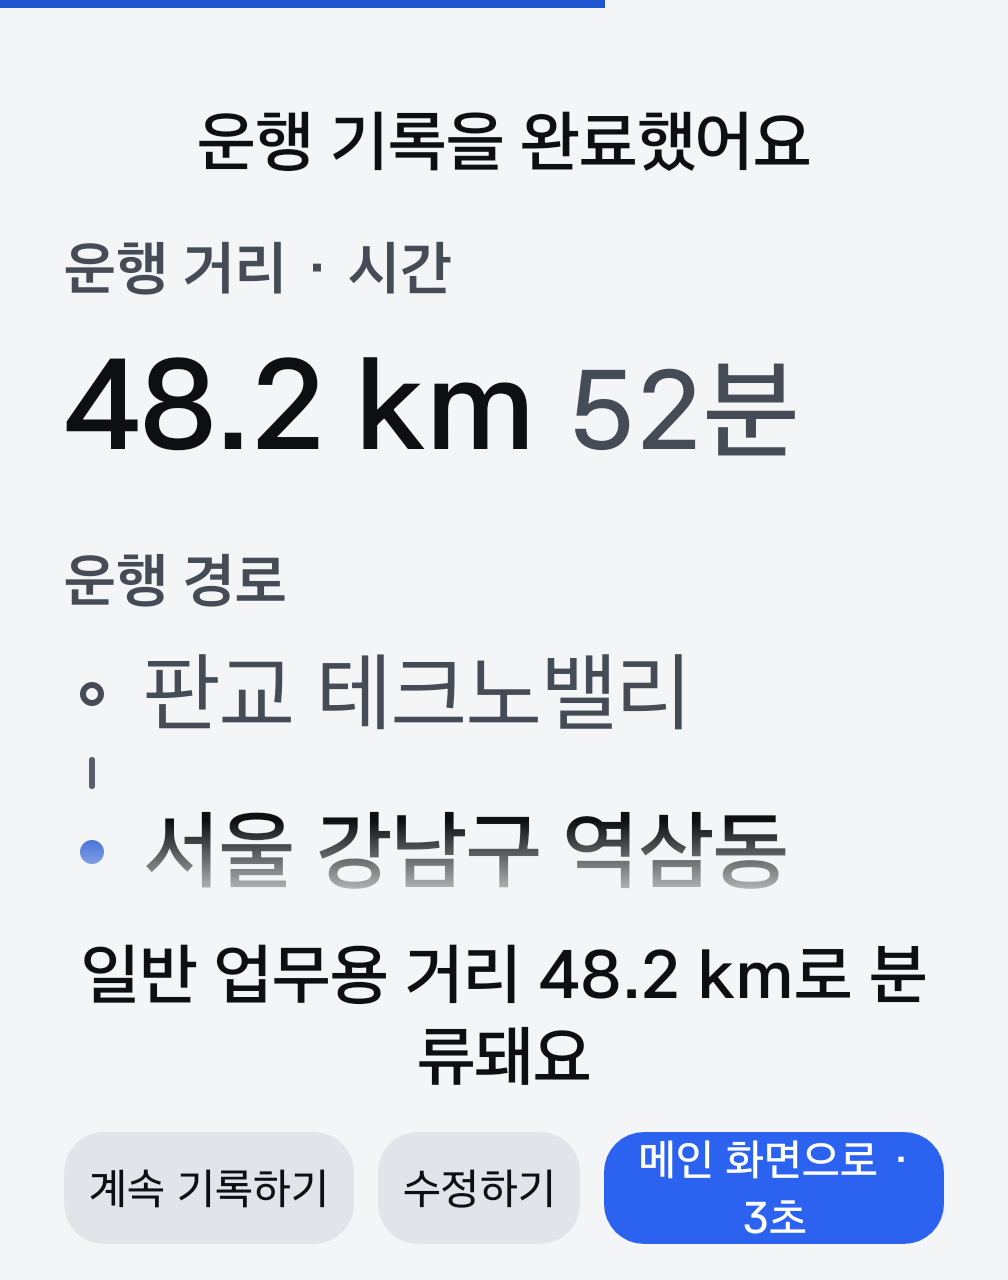
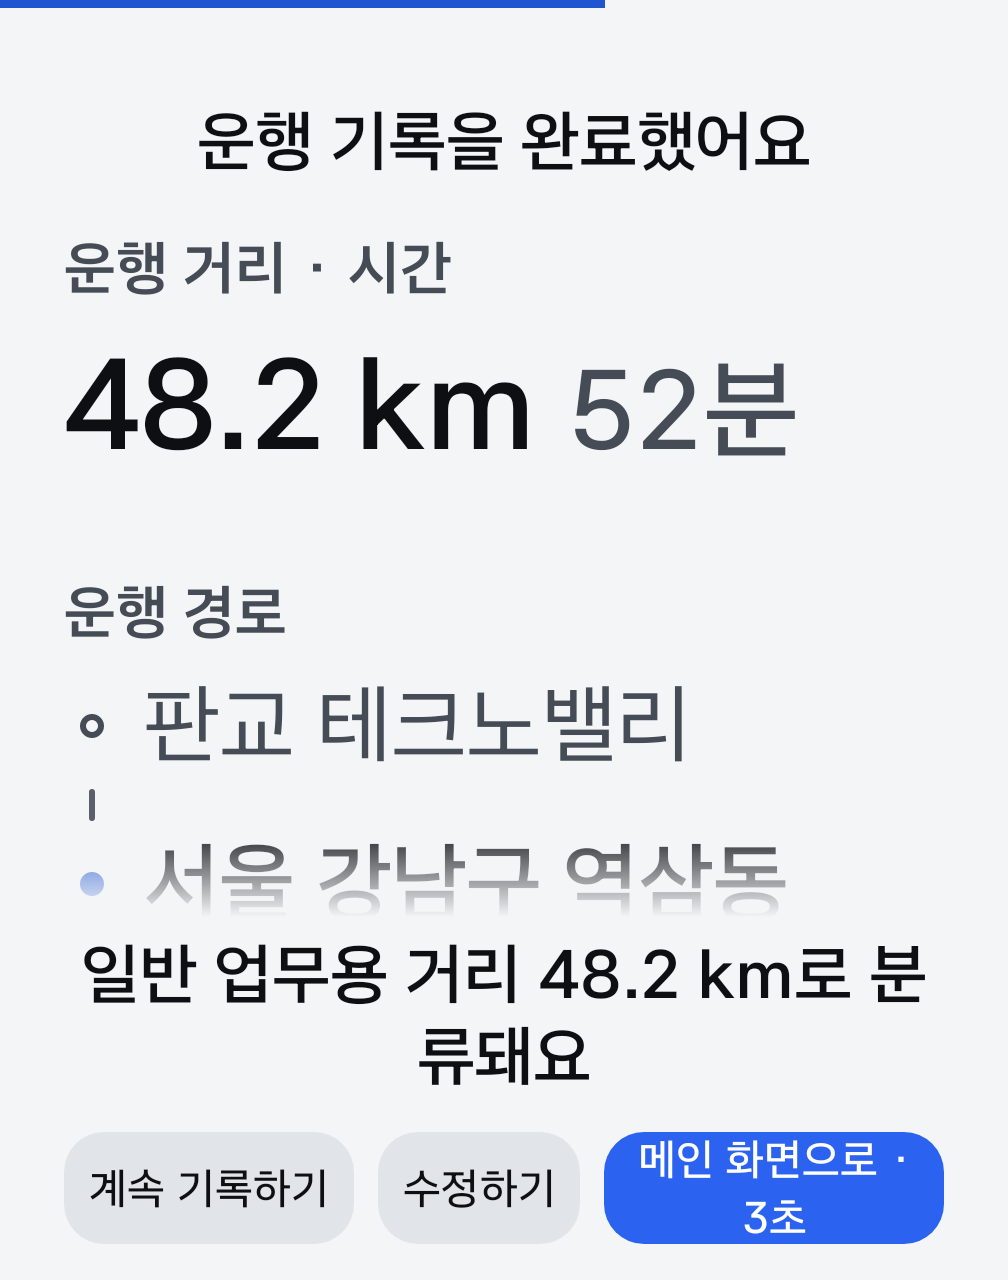
fix(vehicle): widen result section spacing on Pleos

diff --git a/vehicle-app/src/main/kotlin/kr/autolog/vehicle/ui/result/TripResultScreen.kt b/vehicle-app/src/main/kotlin/kr/autolog/vehicle/ui/result/TripResultScreen.kt
@@ -80,11 +80,11 @@ private fun ResultBody(state: TripResultUiState, onAction: (TripResultAction) ->
     Column(
         Modifier.fillMaxSize().padding(
             start = margin,
-            top = if (layout == WindowLayout.WIDE) Space.s5 else margin,
+            top = if (layout == WindowLayout.WIDE) Space.s4 else margin,
             end = margin,
             bottom = when (layout) {
                 WindowLayout.NARROW -> Space.s2
-                WindowLayout.WIDE -> Space.s5
+                WindowLayout.WIDE -> Space.s4
                 WindowLayout.TALL -> margin
             },
         ),
@@ -145,7 +145,7 @@ private fun TwoColumns(modifier: Modifier = Modifier, content: @Composable RowSc
 }
 
 /**
- * 운행 요약: "운행 거리 · 시간" → "운행 경로". 섹션 사이는 넓은·좁은 창 32 dp, 세로 창 48 dp.
+ * 운행 요약: "운행 거리 · 시간" → "운행 경로". 섹션 사이는 모든 창에서 48 dp.
  * 좁은 창에서는 거리·시간과 경로를 전폭으로 쌓아 커진 값이 잘리지 않게 한다. 아래 목적 선택은 같은 칸에서 스크롤한다.
  */
 @Composable
@@ -155,7 +155,7 @@ private fun TripSummary(state: TripResultUiState, dense: Boolean = false) {
             Section(stringResource(R.string.section_distance_time), dense = true) {
                 DistanceTime(state)
             }
-            Spacer(Modifier.height(Space.s6))
+            Spacer(Modifier.height(Space.s7))
             Section(stringResource(R.string.section_route), dense = true) {
                 Route(state)
             }
@@ -163,7 +163,7 @@ private fun TripSummary(state: TripResultUiState, dense: Boolean = false) {
         return
     }
     Section(stringResource(R.string.section_distance_time)) { DistanceTime(state) }
-    Spacer(Modifier.height(if (LocalWindowLayout.current == WindowLayout.TALL) Space.s7 else Space.s6))
+    Spacer(Modifier.height(Space.s7))
     Section(stringResource(R.string.section_route)) { Route(state) }
 }
 

diff --git a/docs/design-language.md b/docs/design-language.md
@@ -304,7 +304,7 @@ M3 컴포넌트를 쓸 때 색이 어긋나지 않도록 `AutoLogTheme`이 `Colo
 | **Picker** (ProfilePicker) | 타일 한 줄 가운데(200 dp), 끝에 `[+ 새 운전자 추가]` | 3열(128 dp), 제목은 어절 단위 두 줄 | 3열(160 dp) |
 | **Media + Form** (FuelEntry — 영수증에서 왔을 때) | 좌 이미지 / 우 필드 | 이미지 상단 1/3 + 필드 | NARROW와 같음 |
 | **Master–Detail** (Settings) | 좌 목록 / 우 상세 | 목록 → 상세 push | NARROW와 같음 |
-| **Result** (운행 결과, D-27·D-28) | 콘텐츠 폭 반반: 위 좌 운행 요약(거리·시간과 경로 사이 32 dp) / 우 운행 목적(선택형 행). 분류 결과는 두 칸 아래 가운데에 큰 글씨로 표시하고, 그 아래 버튼 3개([계속 기록하기] · [수정하기] · [메인 화면으로 · n초])가 콘텐츠 폭 전체를 쓴다. 맨 위 가장자리 남은 시간 막대 | 운행 거리·시간과 경로를 32 dp 간격으로 전폭에 쌓고, 운행 목적은 스크롤 영역에 표시. 분류 결과는 아래 가운데, 버튼은 한 줄 고정 | 넓은 창 순서를 세로 한 칸에 표시하고(두 섹션 사이 48 dp) 분류 결과 아래 버튼 두 줄 |
+| **Result** (운행 결과, D-27·D-28) | 콘텐츠 폭 반반: 위 좌 운행 요약(거리·시간과 경로 사이 48 dp) / 우 운행 목적(선택형 행). 분류 결과는 두 칸 아래 가운데에 큰 글씨로 표시하고, 그 아래 버튼 3개([계속 기록하기] · [수정하기] · [메인 화면으로 · n초])가 콘텐츠 폭 전체를 쓴다. 맨 위 가장자리 남은 시간 막대 | 운행 거리·시간과 경로를 48 dp 간격으로 전폭에 쌓고, 운행 목적은 스크롤 영역에 표시. 분류 결과는 아래 가운데, 버튼은 한 줄 고정 | 넓은 창 순서를 세로 한 칸에 표시하고(두 섹션 사이 48 dp) 분류 결과 아래 버튼 두 줄 |
 
 - 주 버튼은 스크롤 영역 밖 **하단 고정**. 스크롤해야 보이는 주 버튼을 만들지 않는다.
 - **오른쪽 위는 예약 자리**(운전자 배지). 화면의 맨 위 줄은 `padding(end = LocalTopEndReserved.current)`로 비운다 — 배지가 실제로 잰 폭이 들어온다. 화면이 배지 폭을 숫자로 가정하지 않는다.
